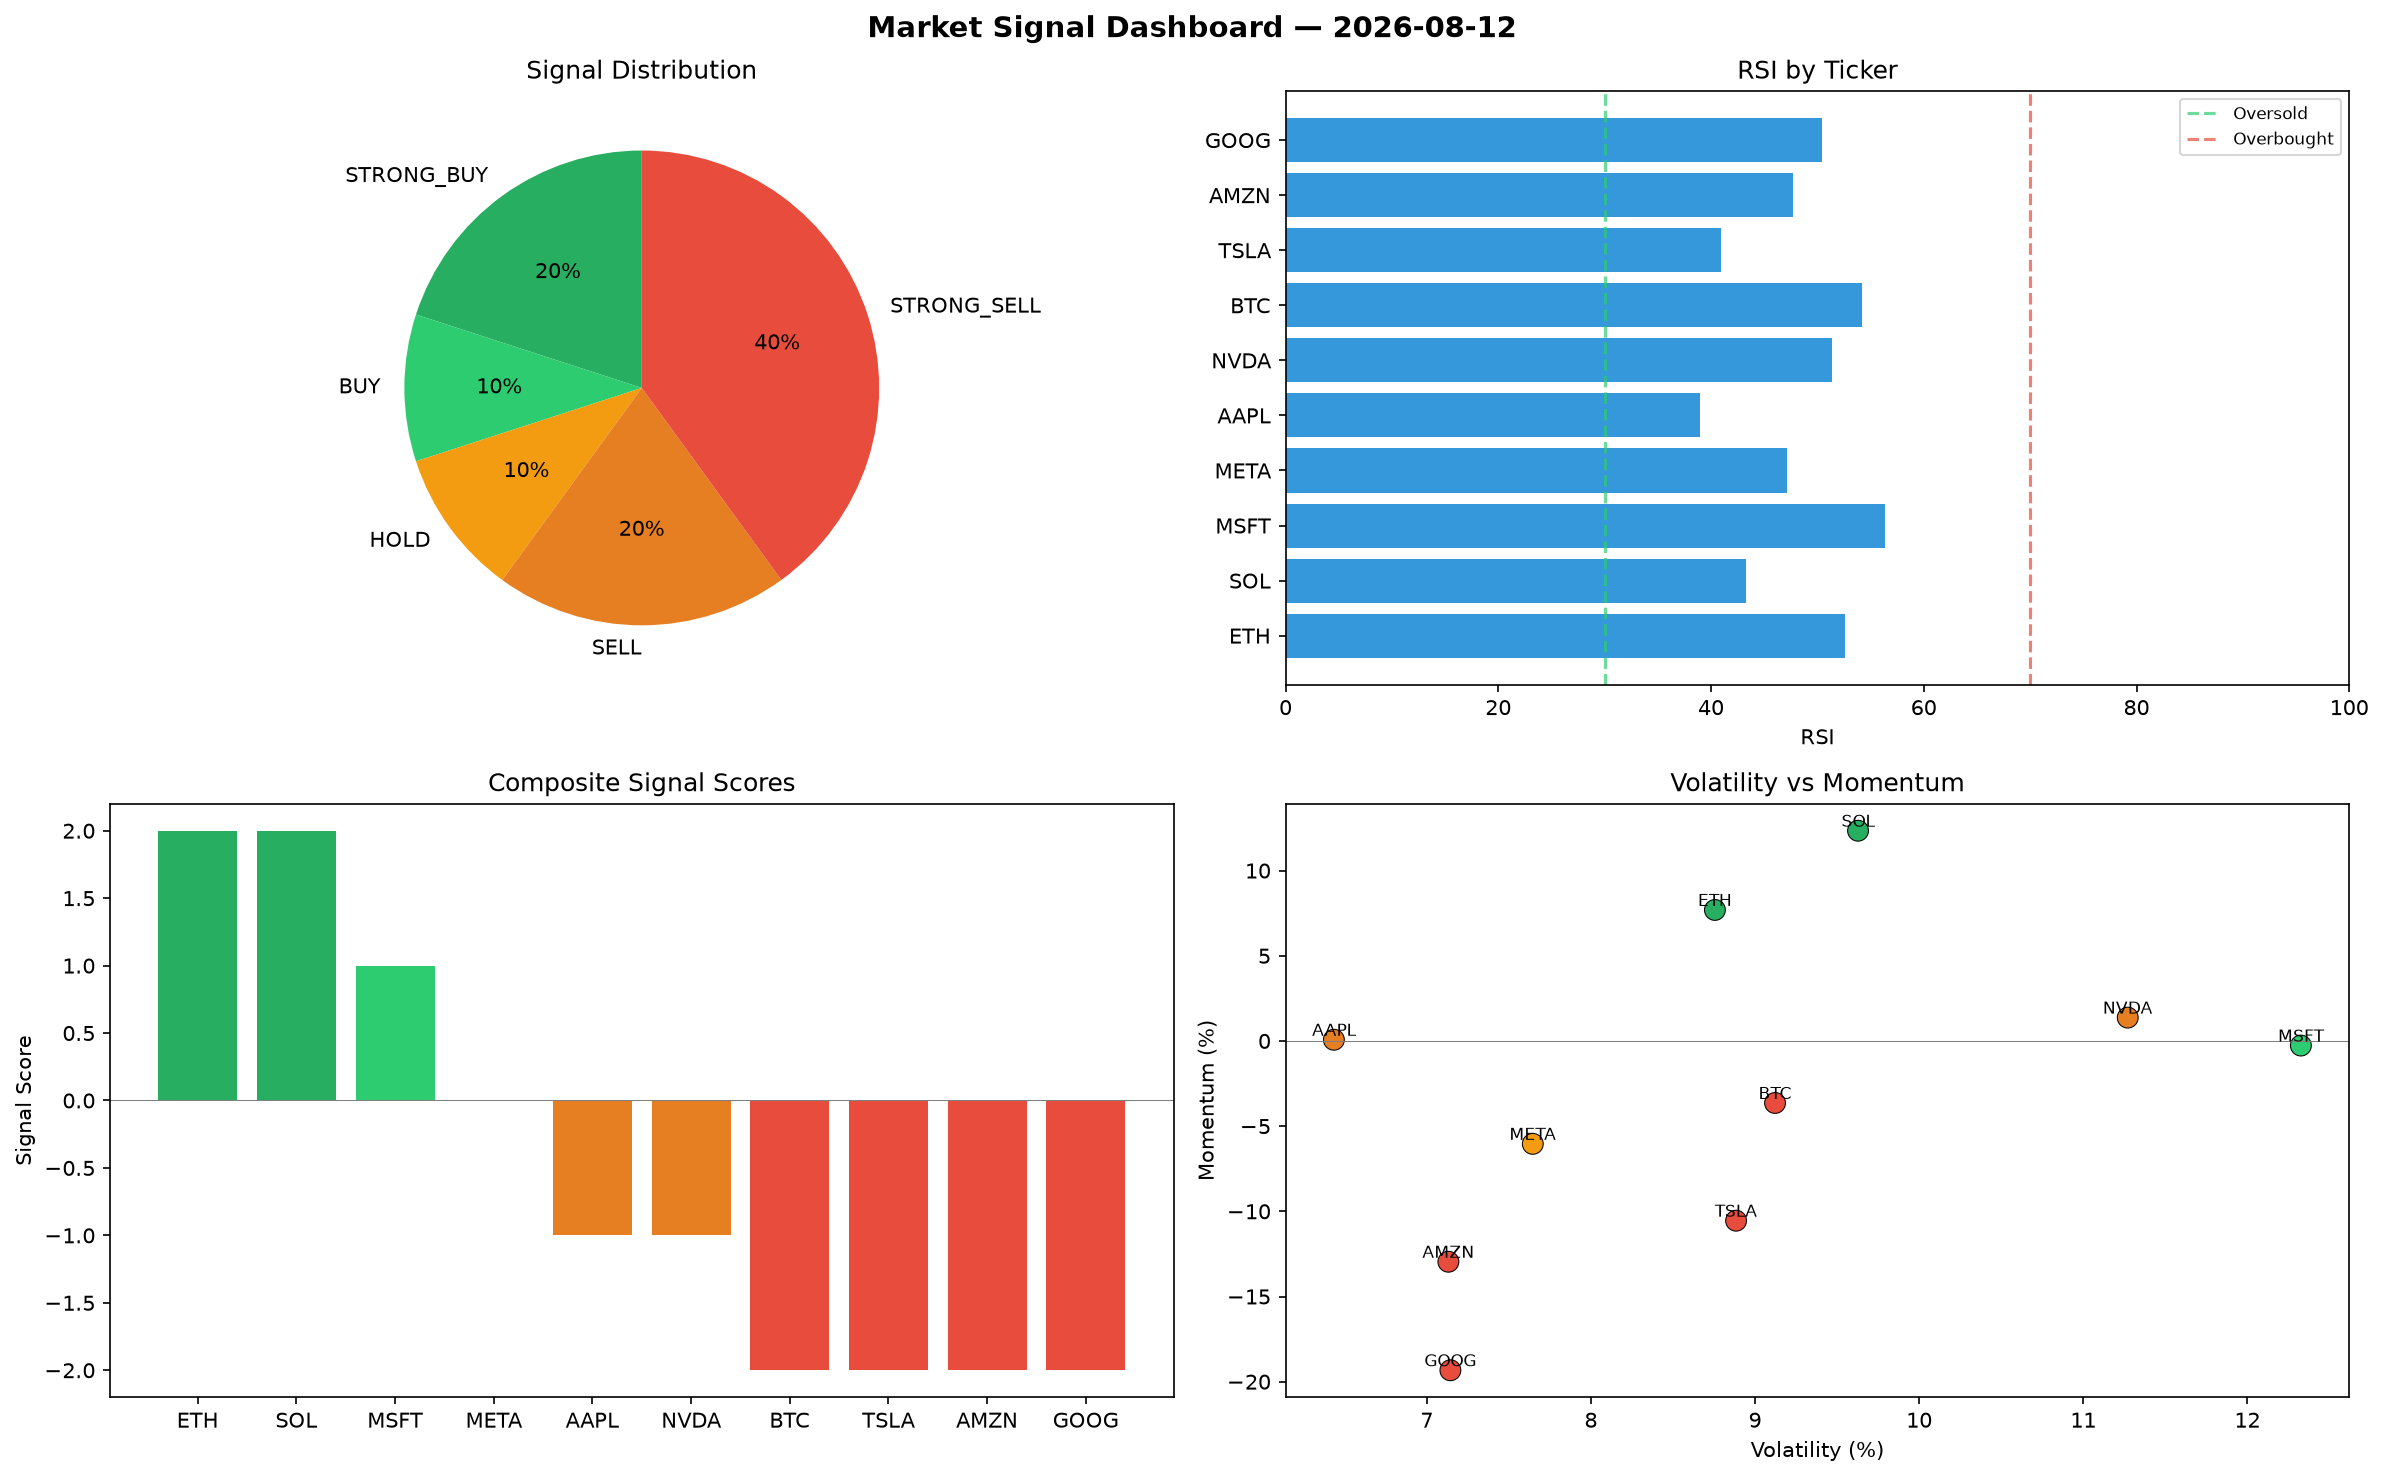
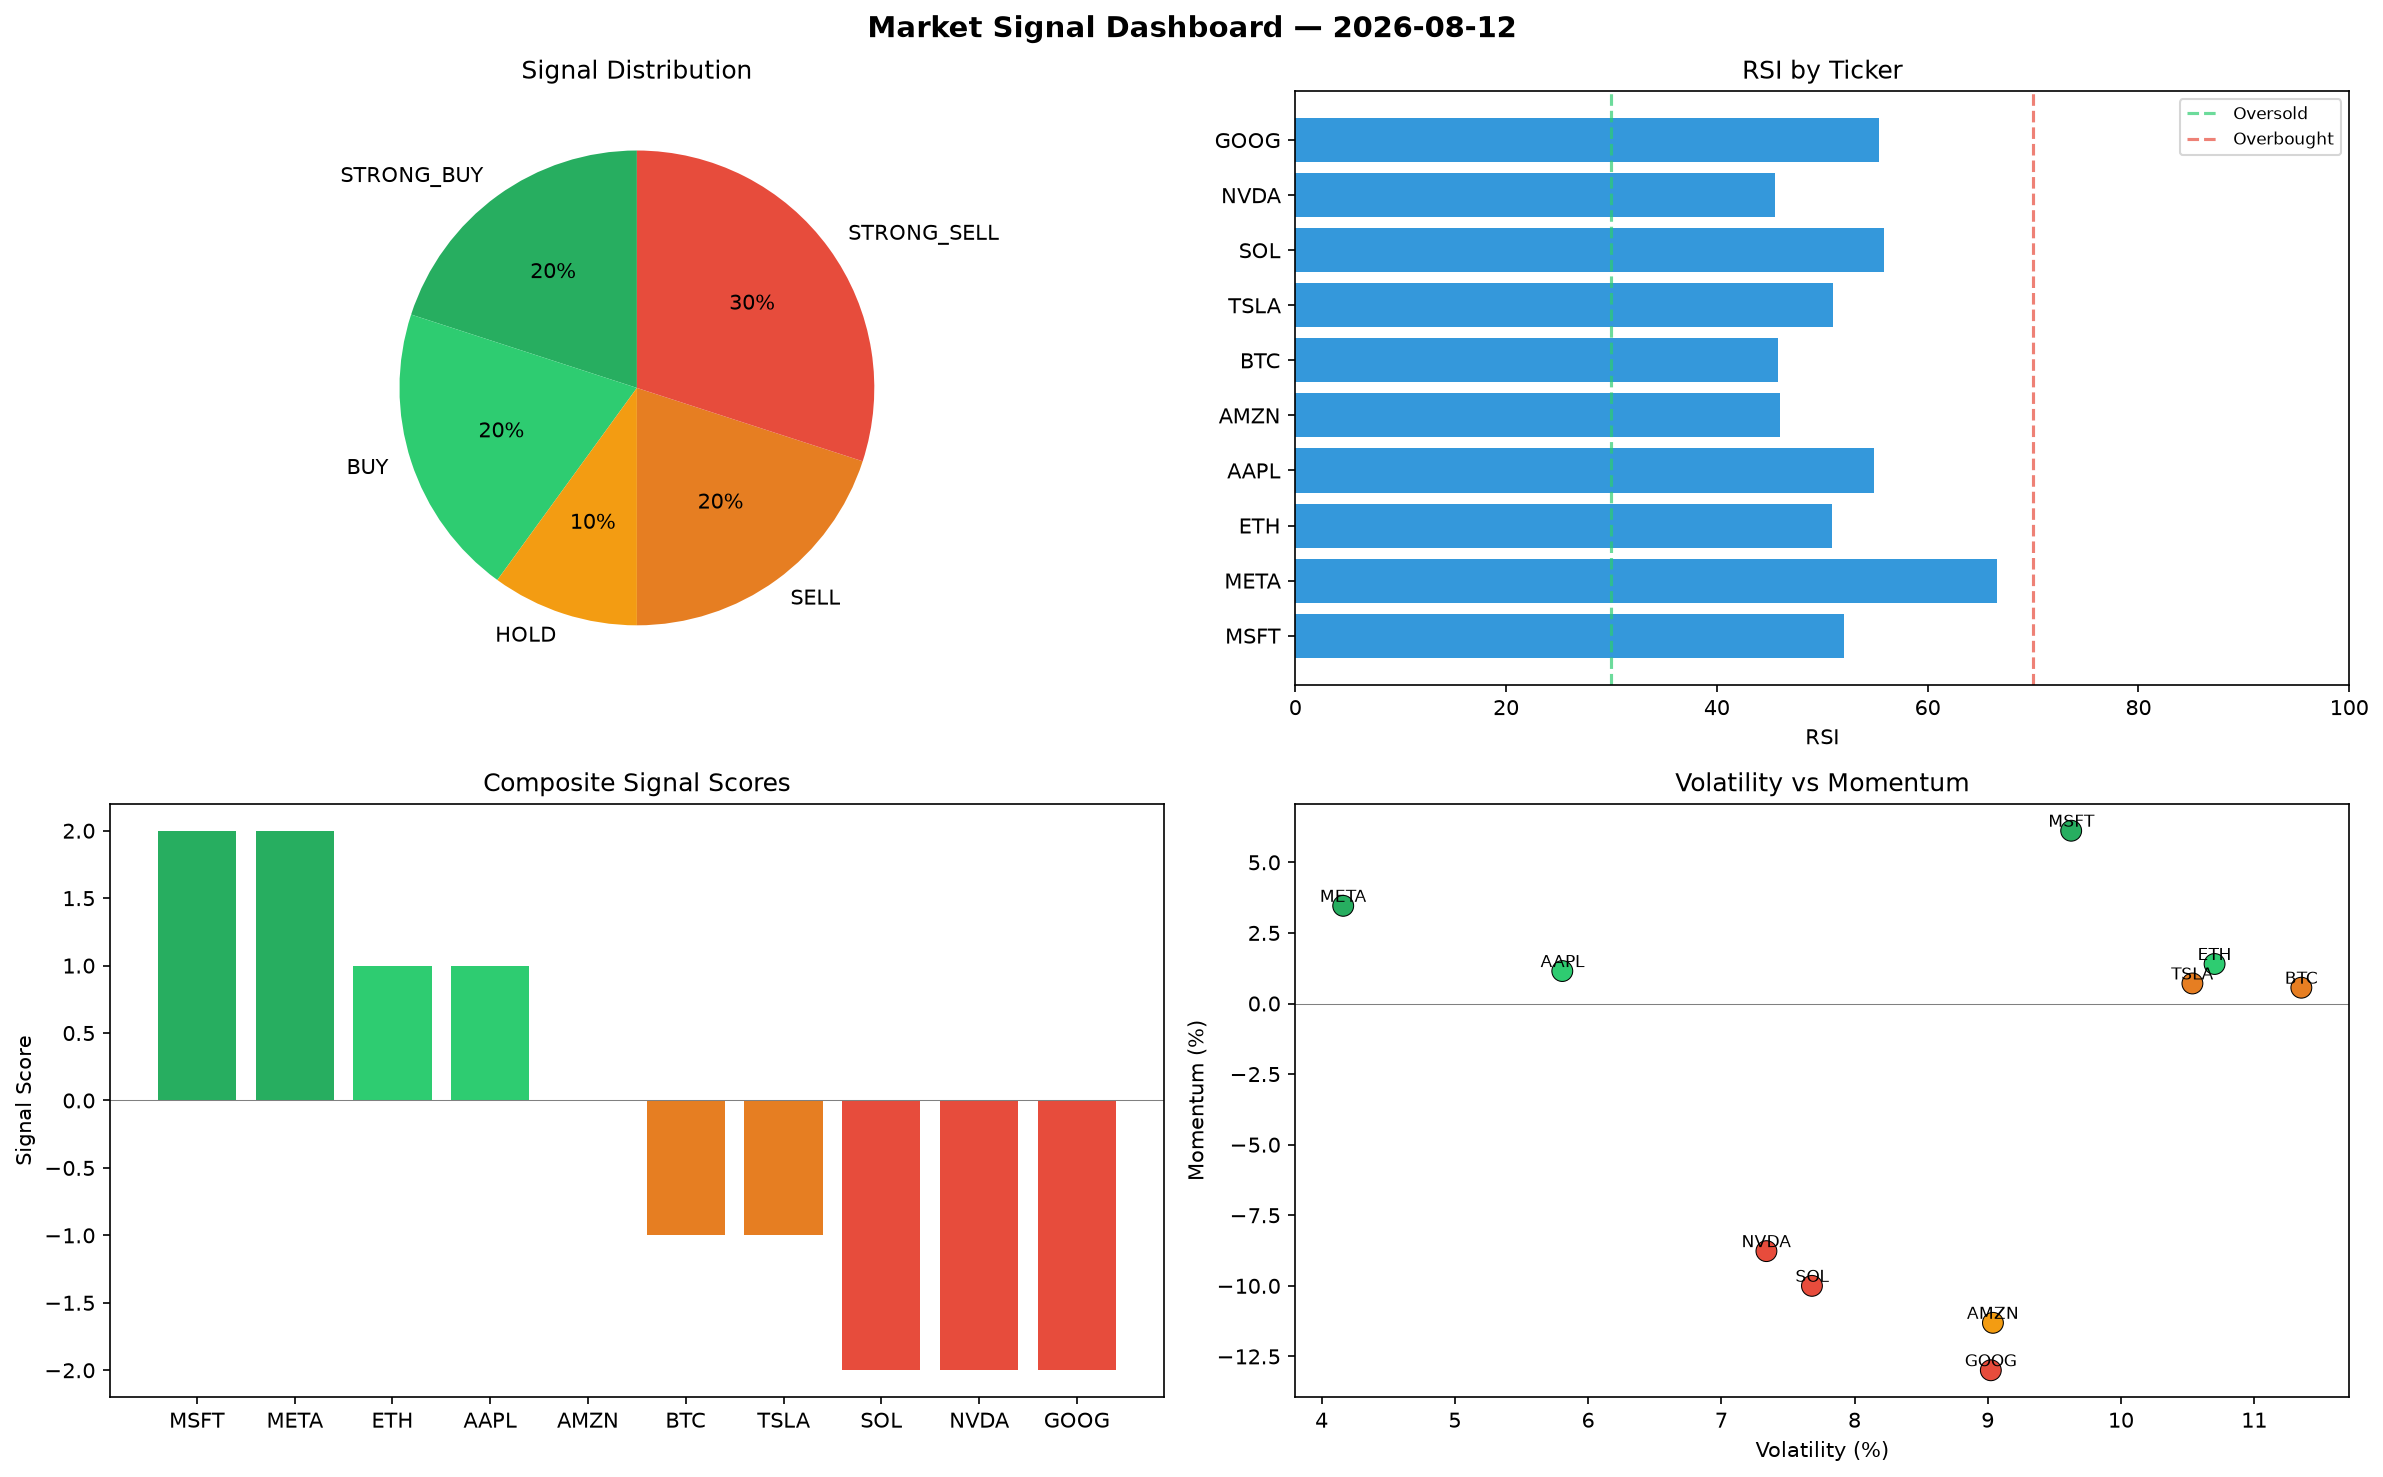
automated-bots: market signals 2026-08-12T09:38

diff --git a/logs/2026-08-12.md b/logs/2026-08-12.md
@@ -1,6 +1,6 @@
 # Market Signal Report — 2026-08-12
 
-**Run ID:** `5769aad946` | **Buy:** 3 | **Sell:** 6 | **Hold:** 1
+**Run ID:** `d3b2015203` | **Buy:** 4 | **Sell:** 5 | **Hold:** 1
 
 ![Dashboard](2026-08-12_dashboard.png)
 
@@ -8,28 +8,28 @@
 
 | Ticker | Price | Signal | Score | RSI | Momentum | Confidence |
 |--------|-------|--------|-------|-----|----------|------------|
-| ETH | $421.44 | **STRONG_BUY** | 2 | 52.61 | 0.0769 | 0.5 |
-| SOL | $4864.78 | **STRONG_BUY** | 2 | 43.31 | 0.1234 | 0.5 |
-| MSFT | $2541.12 | **BUY** | 1 | 56.33 | -0.0027 | 0.25 |
-| META | $790.85 | **HOLD** | 0 | 47.16 | -0.0604 | 0.0 |
-| AAPL | $3306.69 | **SELL** | -1 | 38.93 | 0.0007 | 0.25 |
-| NVDA | $524.28 | **SELL** | -1 | 51.37 | 0.0137 | 0.25 |
-| BTC | $1014.84 | **STRONG_SELL** | -2 | 54.23 | -0.0364 | 0.5 |
-| TSLA | $3200.84 | **STRONG_SELL** | -2 | 40.93 | -0.1055 | 0.5 |
-| AMZN | $976.35 | **STRONG_SELL** | -2 | 47.73 | -0.1296 | 0.5 |
-| GOOG | $3757.14 | **STRONG_SELL** | -2 | 50.44 | -0.1933 | 0.5 |
+| MSFT | $194.5 | **STRONG_BUY** | 2 | 52.1 | 0.0612 | 0.5 |
+| META | $2704.62 | **STRONG_BUY** | 2 | 66.6 | 0.0346 | 0.5 |
+| ETH | $2567.95 | **BUY** | 1 | 50.96 | 0.014 | 0.25 |
+| AAPL | $3914.66 | **BUY** | 1 | 54.94 | 0.0115 | 0.25 |
+| AMZN | $1562.33 | **HOLD** | 0 | 45.97 | -0.1131 | 0.0 |
+| BTC | $2090.75 | **SELL** | -1 | 45.78 | 0.0056 | 0.25 |
+| TSLA | $2959.22 | **SELL** | -1 | 51.0 | 0.0071 | 0.25 |
+| SOL | $4219.27 | **STRONG_SELL** | -2 | 55.85 | -0.1 | 0.5 |
+| NVDA | $1775.57 | **STRONG_SELL** | -2 | 45.52 | -0.0877 | 0.5 |
+| GOOG | $2473.16 | **STRONG_SELL** | -2 | 55.4 | -0.1299 | 0.5 |
 
 ## Delta vs Yesterday
 
 | Ticker | Today | Yesterday | Price Change | Signal Changed |
 |--------|-------|-----------|-------------|----------------|
-| ETH | STRONG_BUY | HOLD | 📉 -68.22% | ⚠ YES |
-| SOL | STRONG_BUY | STRONG_BUY | 📈 42.65% | — |
-| MSFT | BUY | STRONG_SELL | 📈 25.46% | ⚠ YES |
-| META | HOLD | STRONG_SELL | 📉 -63.22% | ⚠ YES |
-| AAPL | SELL | STRONG_BUY | 📉 -29.27% | ⚠ YES |
-| NVDA | SELL | STRONG_BUY | 📉 -79.37% | ⚠ YES |
-| BTC | STRONG_SELL | HOLD | 📉 -44.27% | ⚠ YES |
-| TSLA | STRONG_SELL | BUY | 📈 666.01% | ⚠ YES |
-| AMZN | STRONG_SELL | BUY | 📉 -69.9% | ⚠ YES |
-| GOOG | STRONG_SELL | BUY | 📈 5.51% | ⚠ YES |
+| MSFT | STRONG_BUY | STRONG_SELL | 📉 -90.4% | ⚠ YES |
+| META | STRONG_BUY | STRONG_SELL | 📈 25.77% | ⚠ YES |
+| ETH | BUY | HOLD | 📈 93.64% | ⚠ YES |
+| AAPL | BUY | STRONG_BUY | 📉 -16.27% | ⚠ YES |
+| AMZN | HOLD | BUY | 📉 -51.83% | ⚠ YES |
+| BTC | SELL | HOLD | 📈 14.81% | ⚠ YES |
+| TSLA | SELL | BUY | 📈 608.18% | ⚠ YES |
+| SOL | STRONG_SELL | STRONG_BUY | 📈 23.72% | ⚠ YES |
+| NVDA | STRONG_SELL | STRONG_BUY | 📉 -30.14% | ⚠ YES |
+| GOOG | STRONG_SELL | BUY | 📉 -30.55% | ⚠ YES |
